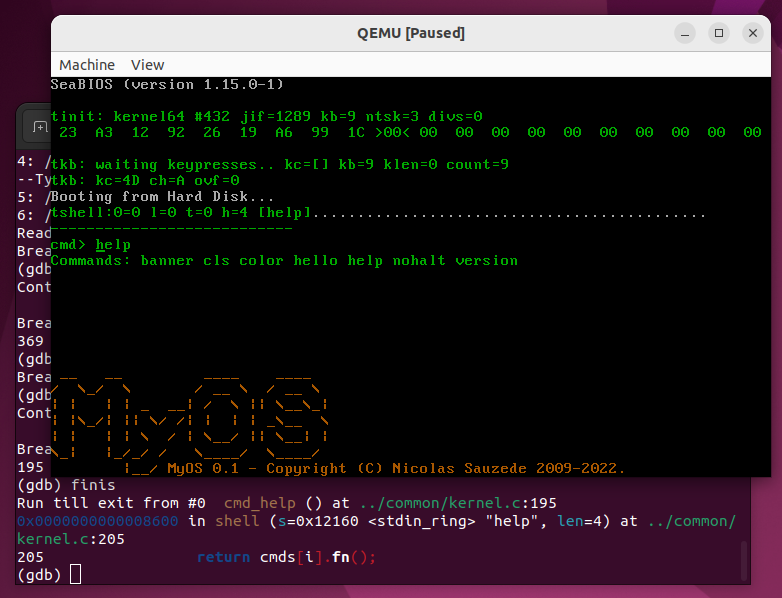
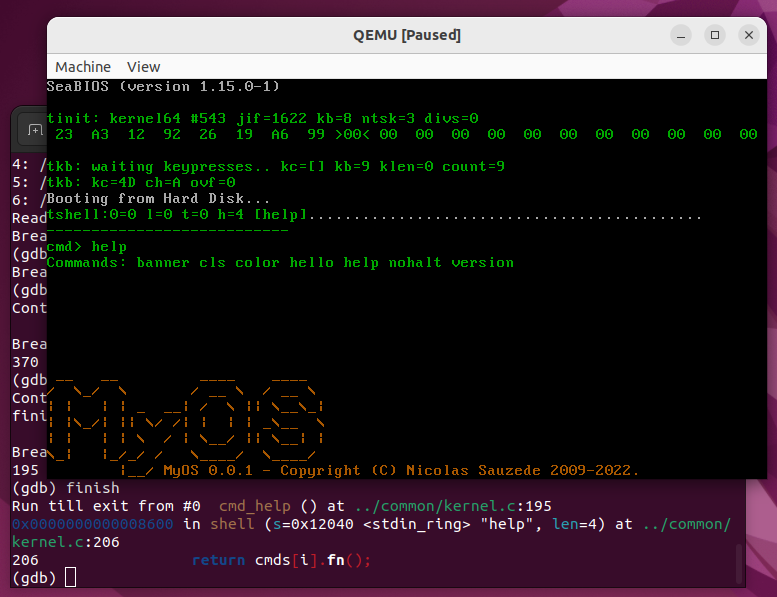
Set myos version 0.0.1

Changed region(s): [[0.0, 0.0, 1.0, 1.0], [0.9884, 0.5427, 1.0, 0.6633], [0.9884, 0.4221, 1.0, 0.4523]]

diff --git a/src/common/kernel.c b/src/common/kernel.c
@@ -1,5 +1,6 @@
 #include "libc.h"
 #include "vid.h"
+#include "myos.h"
 
 #include "ioport.h"
 #include "idt.h"
@@ -8,6 +9,7 @@
 #include "tasks.h"
 
 #define BANNER_HEIGHT 8
+static const char version[] = MYOS_VERSION;
 static const char banner[] = R"(
  __   __         ____    ____
 /  \_/  \       / __ \  / __ \
@@ -15,9 +17,8 @@ static const char banner[] = R"(
 | |\_/| || \/ /| |  | | _\__  \
 | |   | | \  / | \__/ || \__| |
 \_|   |_/_/ /   \____/  \____/
-        |__/ MyOS 0.1 - Copyright (C) Nicolas Sauzede 2009-2022.
+        |__/ MyOS )" MYOS_VERSION R"( - Copyright (C) Nicolas Sauzede 2009-2022.
 )";
-static const char version[] = "0.1";
 
 unsigned char stack[0x4000] asm("stack") = {
     [0] = 0xde,
@@ -373,7 +374,7 @@ void kernel_main() {
     memset(__bss_start, 0, _end - __bss_start); // zero out BSS
 #endif
     console_init();             // this will initialize internal console data for subsequent printouts
-    printf("Hello GRUB no_halt=%x\n", no_halt); // dumb print to check if no_halt (ie: .bss) has been zeroed out
+    //printf("Hello GRUB no_halt=%x\n", no_halt); // dumb print to check if no_halt (ie: .bss) has been zeroed out
 
     idt_setup();                // init idt with default int handlers
 

diff --git a/src/common/myos.h b/src/common/myos.h
@@ -1,0 +1,13 @@
+#ifndef MYOS_H_
+#define MYOS_H_
+
+#define MYOS_VERSION_MAJOR 0
+#define MYOS_VERSION_MINOR 0
+#define MYOS_VERSION_PATCH 1
+
+#define MYOS_VERSION STRINGIFY_(MYOS_VERSION_MAJOR) "." STRINGIFY_(MYOS_VERSION_MINOR) "." STRINGIFY_(MYOS_VERSION_PATCH)
+
+#define STRINGIFY_HELPER_(name, ...) #name
+#define STRINGIFY_(...) STRINGIFY_HELPER_(__VA_ARGS__, )
+
+#endif/*MYOS_H_*/
